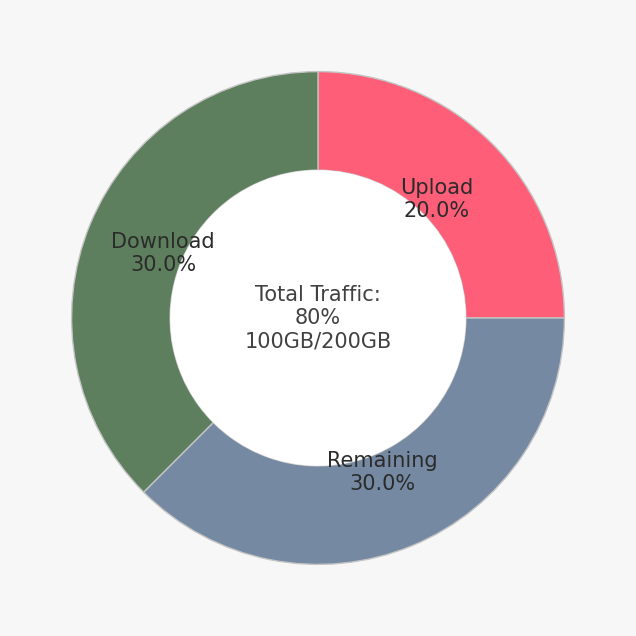
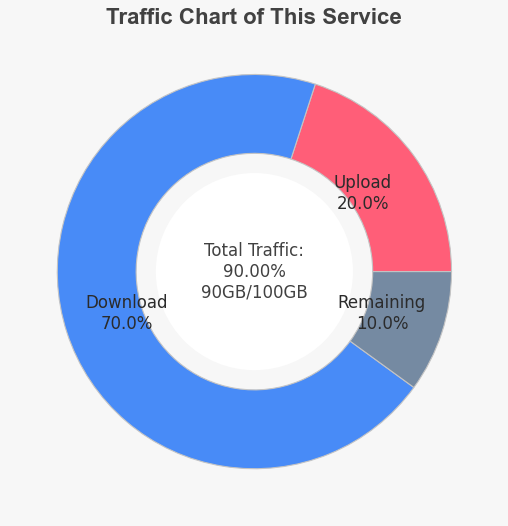
'update_v2ray'

diff --git a/v2ray-bot/tasks.py b/v2ray-bot/tasks.py
@@ -1,7 +1,7 @@
 import random
-
+from datetime import datetime
 import telegram.error
-
+import private
 from sqlite_manager import ManageDb
 from telegram import InlineKeyboardButton, InlineKeyboardMarkup
 from telegram.ext import ConversationHandler, CallbackQueryHandler, MessageHandler, Filters
@@ -10,6 +10,7 @@ from private import ADMIN_CHAT_ID
 from admin_task import add_client_bot, api_operation
 import qrcode
 from io import BytesIO
+from plot import generate_chart
 
 
 sqlite_manager = ManageDb('v2ray')
@@ -30,9 +31,8 @@ def buy_service(update, context):
     try:
         query = update.callback_query
         plans = sqlite_manager.select(table='Product', where='active = 1')
-        server_name_unic = {name[3] for name in plans}
-        country_unic = {name[4] for name in plans}
-        keyboard = [[InlineKeyboardButton(ser, callback_data=cont)] for ser, cont in zip(list(server_name_unic), list(country_unic))]
+        server_name_unic = {name[3]:name[4] for name in plans}
+        keyboard = [[InlineKeyboardButton(ser, callback_data=cou)] for ser, cou in server_name_unic.items()]
         keyboard.append([InlineKeyboardButton("برگشت ↰", callback_data="main_menu")])
         query.edit_message_text(text="<b>سرور مورد نظر خودتون رو انتخاب کنید:</b>", reply_markup=InlineKeyboardMarkup(keyboard), parse_mode='html')
     except Exception as e:
@@ -44,7 +44,7 @@ def all_query_handler(update, context):
     try:
         text = "<b>سرویس مناسب خودتون رو انتخاب کنید:\n\n✪ با انتخاب گزینه 'دلخواه' میتونید یک سرویس شخصی سازی شده بسازید!</b>"
         query = update.callback_query
-        plans = sqlite_manager.select(table='Product', where='active = 1')
+        plans = sqlite_manager.select(table='Product', where=f'active = 1 and country = "{query.data}"')
         country_unic = {name[4] for name in plans}
         for country in country_unic:
             if query.data == country:
@@ -52,7 +52,7 @@ def all_query_handler(update, context):
                 keyboard = [[InlineKeyboardButton(f"سرویس {pattern[5]} روزه - {pattern[6]} گیگابایت - {pattern[7]:,} تومان",
                                                   callback_data=f"service_{pattern[0]}")] for pattern in service_list]
 
-                keyboard.append([InlineKeyboardButton("سرویس دلخواه ४", callback_data="personalization_service")])
+                keyboard.append([InlineKeyboardButton("سرویس دلخواه ४", callback_data=f"personalization_service_{plans[0][0]}")])
                 keyboard.append([InlineKeyboardButton("برگشت ↰", callback_data="select_server")])
                 query.edit_message_text(text= text, reply_markup=InlineKeyboardMarkup(keyboard), parse_mode='html')
     except Exception as e:
@@ -100,7 +100,7 @@ def pay_page_get_evidence(update, context):
                 f"\n`{uuid_}`"
                 f"\n\nمدت اعتبار فاکتور: 10 دقیقه"
                 f"\nسرویس: {package[0][5]} روز - {package[0][6]} گیگابایت"
-                f"\n*قیمت*: `{package[0][7]}`* تومان *"
+                f"\n*قیمت*: `{package[0][7]:,}`* تومان *"
                 f"\n\n*• لطفا مبلغ رو به شمارهحساب زیر واریز کنید و اسکرینشات یا شمارهپیگیری رو بعد از همین پیام ارسال کنید.*"
                 f"\n\n`6219861938619417` - امیرحسین نجفی"
                 f"\n\n*• بعد از تایید شدن پرداخت، سرویس برای شما ارسال میشه، زمان تقریبی 5 دقیقه الی 3 ساعت.*")
@@ -229,9 +229,50 @@ def my_service(update, context):
 
 
 def server_detail_customer(update, context):
-    email = int(update.callback_query.data.replace('view_service_', ''))
-    api_operation.get_client(email)
+    query = update.callback_query
+    email = update.callback_query.data.replace('view_service_', '')
+    try:
+        get_data = sqlite_manager.select(table='Purchased', where=f'client_email = "{email}"')
+        ret_conf = api_operation.get_client(email)
+        keyboard = [[InlineKeyboardButton("تمدید و ارتقا ↟", callback_data="main_menu")],
+                    [InlineKeyboardButton("برگشت ↰", callback_data="my_service")]]
 
+        upload_gb = round(int(ret_conf['obj']['up']) / (1024 ** 3), 2)
+        download_gb = round(int(ret_conf['obj']['down']) / (1024 ** 3), 2)
+        usage_traffic = round(upload_gb + download_gb, 2)
+        if int(ret_conf['obj']['total']) != 0:
+            total_traffic = round(int(ret_conf['obj']['total']) / (1024 ** 3), 2)
+        else:
+            total_traffic = '∞'
+
+        if ret_conf['obj']['expiryTime'] != 0:
+            expiry_timestamp = ret_conf['obj']['expiryTime'] / 1000
+            expiry_date = datetime.fromtimestamp(expiry_timestamp)
+            expiry_month = expiry_date.strftime("%Y/%m/%d")
+            days_lefts = (expiry_date - datetime.now()).days
+        else:
+            expiry_month = days_lefts = '∞'
+
+        change_active = '✅' if ret_conf['obj']['enable'] else '❌'
+        print(ret_conf)
+        purchase_date = datetime.strptime(get_data[0][12], "%Y-%m-%d %H:%M:%S.%f%z")
+
+        text_ = (
+            f"اطلاعات سرویس انتخاب شده:"
+            f"\n\n🔷 نام سرویس: {email}"
+            f"\n💡 فعال: {change_active}"
+            f"\n📅 تاریخ انقضا: {expiry_month} ({days_lefts}روز مانده)"
+            f"\n🔼 آپلود↑: {upload_gb}"
+            f"\n🔽 دانلود↓: {download_gb}"
+            f"\n📊 مصرف کل: {usage_traffic}/{total_traffic}GB"
+            f"\n\n⏰ تاریخ خرید: {purchase_date.strftime("%H:%M:%S %d/%m/%Y")}"
+            f"\n\n🌐 آدرس سرویس:\n <code>{get_data[0][8]}</code>"
+        )
+        query.edit_message_text(text=text_, reply_markup=InlineKeyboardMarkup(keyboard), parse_mode='html')
+        sqlite_manager.update({'Purchased': {'status': 1 if ret_conf['obj']['enable'] else 0}}, where=f'where client_email = "{email}"')
+    except Exception as e:
+        query.answer('مشکلی وجود دارد!')
+        print(e)
 
 
 def create_file_and_return(update, context):
@@ -248,3 +289,66 @@ def create_file_and_return(update, context):
     except Exception as e:
         query.answer('مشکلی وجود دارد!')
         print(e)
+
+
+def personalization_service(update, context):
+    query = update.callback_query
+    if 'personalization_service_' in query.data:
+        context.user_data['personalization_service_id'] = int(query.data.replace('personalization_service_', ''))
+    get_data_from_db = sqlite_manager.select(table='User', where=f'chat_id = {query.message.chat_id}')
+
+    traffic = get_data_from_db[0][5]
+    period = get_data_from_db[0][6]
+    price = (traffic * private.PRICE_PER_GB) + (period * private.PRICE_PER_DAY)
+
+    if 'traffic_low_10' in query.data or 'traffic_low_1' in query.data:
+        traffic_t = int(query.data.replace('traffic_low_', ''))
+        traffic = traffic - traffic_t
+        traffic = traffic if traffic >= 0 else 0
+    elif 'traffic_high_1' in query.data or 'traffic_high_10' in query.data:
+        traffic_t = int(query.data.replace('traffic_high_', ''))
+        traffic = traffic + traffic_t
+        traffic = traffic if traffic <= 500 else 500
+    elif 'period_low_10' in query.data or 'period_low_1' in query.data:
+        period_t = int(query.data.replace('period_low_', ''))
+        period = period - period_t
+        period = period if period >= 1 else 1
+    elif 'period_high_1' in query.data or 'period_high_10' in query.data:
+        period_t = int(query.data.replace('period_high_', ''))
+        period = period + period_t
+        period = period if period <= 500 else 500
+    elif 'accept_personalization' in query.data:
+        id_ =  context.user_data['personalization_service_id']
+        keyboard = [
+            [InlineKeyboardButton("بله", callback_data=f"personalization_service_{id_}"),
+             InlineKeyboardButton("خیر", callback_data=f"personalization_service_{id_}")]
+        ]
+        texted = (f'شخصی سازی مورد تایید شماست؟'
+                  f'\n\nحجم سرویس: {traffic}GB'
+                  f'\nدوره زمانی: {period} روز'
+                  f'\n*قیمت: {price:,}*')
+        query.edit_message_text(text=texted, parse_mode='markdown', reply_markup=InlineKeyboardMarkup(keyboard))
+
+
+    sqlite_manager.update({'User': {'traffic':traffic, 'period': period}},where=f'where chat_id = {query.message.chat_id}')
+
+    text = ('*• تو این بخش میتونید سرویس مورد نظر خودتون رو شخصی سازی کنید:*'
+            f'\n\nحجم سرویس: {traffic}GB'
+            f'\nدوره زمانی: {period} روز'
+            f'\n*قیمت: {price:,}*')
+    keyboard = [
+        [InlineKeyboardButton("«", callback_data="traffic_low_10"),
+         InlineKeyboardButton("‹", callback_data="traffic_low_1"),
+         InlineKeyboardButton(f"{traffic}GB", callback_data="just_for_show"),
+         InlineKeyboardButton("›", callback_data="traffic_high_1"),
+         InlineKeyboardButton("»", callback_data="traffic_high_10")],
+        [InlineKeyboardButton("«", callback_data="period_low_10"),
+         InlineKeyboardButton("‹", callback_data="period_low_1"),
+         InlineKeyboardButton(f"{period}Day", callback_data="just_for_show"),
+         InlineKeyboardButton("›", callback_data="period_high_1"),
+         InlineKeyboardButton("»", callback_data="period_high_10")],
+        [InlineKeyboardButton("✓ تایید", callback_data="accept_personalization")],
+        [InlineKeyboardButton("برگشت ↰", callback_data="select_server")]
+    ]
+
+    query.edit_message_text(text=text, parse_mode='markdown', reply_markup=InlineKeyboardMarkup(keyboard))

diff --git a/v2ray-bot/plot.py b/v2ray-bot/plot.py
@@ -2,46 +2,41 @@ import matplotlib.pyplot as plt
 import numpy as np
 from io import BytesIO
 
-def generate_stylish_pie_chart_and_save():
+def generate_chart(data):
+    total_volume = sum(data)
+    percentages = [(value / total_volume) * 100 for value in data]
+
+    labels = ["Upload", "Download", "Remaining"]
+    colors = ['#FF5E78', '#488bf7', '#758AA2']  # Custom color palette
+
     fig, ax = plt.subplots(figsize=(8, 8))
     fig.patch.set_facecolor('#f7f7f7')  # Background color for the entire figure
 
-    data = [20, 30, 30]  # Values in percentage
-    labels = ["Upload", "Download", "Remaining"]
-    colors = ['#FF5E78', '#5E7F5E', '#758AA2']  # Custom color palette
-
-    wedges, texts = ax.pie(data, labels=None, autopct=None,
+    wedges, texts = ax.pie(percentages, labels=None, autopct=None,
                            textprops=dict(color="w", fontsize=12, fontweight='bold'),
                            colors=colors, wedgeprops=dict(width=0.4, edgecolor='#c4c4c4'))
 
-    # Adding a circular border for a stylish look
-    centre_circle = plt.Circle((0, 0), 0.6, color='white', fc='white', linewidth=0.1)
+    centre_circle = plt.Circle((0, 0), 0.5, color='white', fc='white', linewidth=0.1)
     ax.add_artist(centre_circle)
 
-    # Placing consumption type and percentage within each section
-    for wedge, label, percentage in zip(wedges, labels, data):
+    for wedge, label, percentage in zip(wedges, labels, percentages):
         angle = (wedge.theta2 - wedge.theta1) / 2.0 + wedge.theta1
         x = 0.68 * np.cos(np.radians(angle))
         y = 0.68 * np.sin(np.radians(angle))
         ax.text(x, y, f'{label}\n{percentage:.1f}%', ha='center', va='center', fontsize=15, color='#2b2b2b')
 
-    # Additional information in the center
-    total_volume = sum(data)
-    info_text = f'Total Traffic:\n{total_volume}%\n100GB/200GB'
+    remaining_percentage = (data[2] / total_volume) * 100
+    info_text = f'Total Traffic:\n{100 - remaining_percentage:.2f}%\n{data[0] + data[1]}GB/{total_volume}GB'
     ax.text(0, 0, info_text, ha='center', va='center', fontsize=15, color='#414141',
             bbox=dict(boxstyle='round', facecolor='white', edgecolor='white'))
 
     title_font = {'fontsize': 20, 'fontweight': 'bold', 'fontfamily': 'Arial'}
     ax.set_title("Traffic Chart of This Service", fontdict=title_font, y=.99, color='#414141')
 
-    plt.savefig('stylish_pie_chart.png', dpi=100, bbox_inches='tight', facecolor=fig.get_facecolor())
-
     buffer = BytesIO()
-    plt.savefig(buffer, format='png', dpi=100, bbox_inches='tight', facecolor=fig.get_facecolor())
+    plt.savefig(buffer, format='png', dpi=80, bbox_inches='tight', facecolor=fig.get_facecolor())
     binary_data = buffer.getvalue()
     buffer.close()
 
     return binary_data
 
-# Call the function to generate the stylish pie chart and save it
-generate_stylish_pie_chart_and_save()

diff --git a/v2ray-bot/main.py b/v2ray-bot/main.py
@@ -3,7 +3,7 @@ from private import telegram_bot_token
 from bot_start import bot_start, main_menu, send_main_message
 from database import create_database
 from tasks import (not_ready_yet, buy_service, all_query_handler, payment_page, get_service_con, apply_card_pay,
-                   my_service, create_file_and_return, server_detail_customer)
+                   my_service, create_file_and_return, server_detail_customer, personalization_service)
 from admin_task import admin_add_update_inbound, add_service, all_service, del_service
 
 
@@ -35,6 +35,17 @@ def main():
     dp.add_handler(CallbackQueryHandler(apply_card_pay, pattern='cancel_pay'))
 
     dp.add_handler(CallbackQueryHandler(create_file_and_return, pattern=r'create_txt_file'))
+    dp.add_handler(CallbackQueryHandler(personalization_service, pattern=r'personalization_service_\d+'))
+    dp.add_handler(CallbackQueryHandler(personalization_service, pattern='accept_personalization'))
+    dp.add_handler(CallbackQueryHandler(personalization_service, pattern='traffic_low_10'))
+    dp.add_handler(CallbackQueryHandler(personalization_service, pattern='traffic_low_1'))
+    dp.add_handler(CallbackQueryHandler(personalization_service, pattern='traffic_high_1'))
+    dp.add_handler(CallbackQueryHandler(personalization_service, pattern='traffic_high_10'))
+    dp.add_handler(CallbackQueryHandler(personalization_service, pattern='period_low_10'))
+    dp.add_handler(CallbackQueryHandler(personalization_service, pattern='period_low_1'))
+    dp.add_handler(CallbackQueryHandler(personalization_service, pattern='period_high_1'))
+    dp.add_handler(CallbackQueryHandler(personalization_service, pattern='period_high_10'))
+
     dp.add_handler(CallbackQueryHandler(my_service, pattern='my_service'))
     dp.add_handler(CallbackQueryHandler(not_ready_yet, pattern='settings'))
     dp.add_handler(CallbackQueryHandler(not_ready_yet, pattern='get_test_service'))

diff --git a/v2ray-bot/bot_start.py b/v2ray-bot/bot_start.py
@@ -22,8 +22,8 @@ def bot_start(update, context):
 
     if len(user_is_available) == 0:
         context.bot.send_message(ADMIN_CHAT_ID, text=start_text_notif, parse_mode="HTML")
-        c.execute("INSERT INTO User (name,user_name,chat_id,date) VALUES (?,?,?,?)",
-                  (user["first_name"], user["username"], int(user["id"]), str(date)))
+        c.execute("INSERT INTO User (name,user_name,chat_id,date,traffic,period) VALUES (?,?,?,?,?,?)",
+                  (user["first_name"], user["username"], int(user["id"]), str(date), 10, 7))
         conn.commit()
 
     user_text = f"<b>سلام <a href='tg://user?id={user['id']}'>{user['first_name']}</a> عزیز، به FreeByte خوش آمدید.\nبرای ادامه بخش مورد نظر خودتون رو انتخاب کنید:\n</b>"

diff --git a/v2ray-bot/admin_task.py b/v2ray-bot/admin_task.py
@@ -142,7 +142,7 @@ def add_client_bot(purchased_id):
         now_data_add_day = now + timedelta(days=period)
         time_to_ms = second_to_ms(now_data_add_day)
         id_ = f"{get_client_db[0][4]}_{purchased_id}"
-        email_ = f"{purchased_id}_Started:{now.strftime('%Y_%m_%d')}__{period}Day__{get_service_db[0][6]}GB"
+        email_ = f"{purchased_id}_{get_service_db[0][4]}_{get_service_db[0][6]}GB"
         data = {
             "id": int(get_service_db[0][1]),
             "settings": "{{\"clients\":[{{\"id\":\"{0}\",\"alterId\":0,\"start_after_first_use\":true,"

diff --git a/v2ray-bot/database.py b/v2ray-bot/database.py
@@ -6,7 +6,7 @@ def create_database():
     c = conn.cursor()
 
     c.execute('CREATE TABLE IF NOT EXISTS User(id integer primary key, name text, user_name text, chat_id integer, '
-              'date text)')
+              'date text, traffic integer, period integer)')
 
     c.execute('CREATE TABLE IF NOT EXISTS Admin(id integer primary key, name text, user_name text, chat_id text,'
               ' level integer)')

diff --git a/v2ray-bot/private.py b/v2ray-bot/private.py
@@ -4,3 +4,5 @@ PORT = 2053
 ADMIN_CHAT_ID = 6450325872
 DOMAIN = "admin.ggkala.shop"
 protocol = 'http://'
+PRICE_PER_GB = 1_500
+PRICE_PER_DAY = 100
